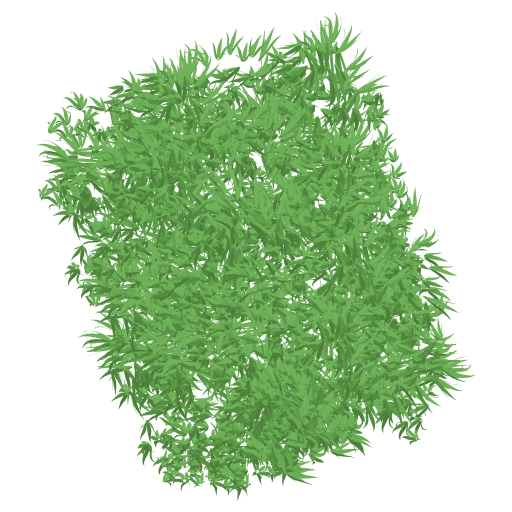
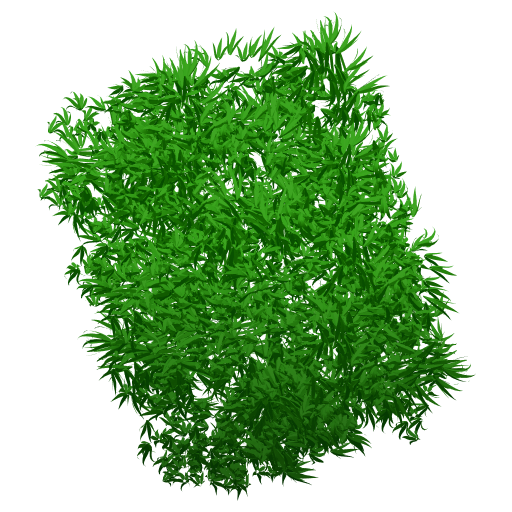
Gräs: heltäckande tuvor, mörkare och tätare som modellen

diff --git a/market/public/office.js b/market/public/office.js
@@ -48,10 +48,10 @@ let BW=19,floors=3,LAWN=null;
 /* Gräs: modellen "Grass" av MauroGonzalezA (CC BY 4.0, se CREDITS.md). Tuvan är bakad till en bild med genomskinlig bakgrund
    och planteras som tusentals korsade kort (en enda InstancedMesh), så det går lätt även på mobil. Marken under är den vanliga gröna ytan. */
 let TUFT=null,TUFT_TRIED=false,gpMat=null;
-const TUFT_SIZE=.8;
+const TUFT_SIZE=.55;
 function loadTuft(){
   if(TUFT_TRIED)return;TUFT_TRIED=true;
-  new T3.TextureLoader().load('models/grasstuft.png',t=>{
+  new T3.TextureLoader().load('models/grasstuft.png?v=2',t=>{
     t.encoding=T3.sRGBEncoding;t.anisotropy=4;
     gpMat=new T3.MeshBasicMaterial({map:t,alphaTest:.45,side:T3.DoubleSide});
     const g=new T3.BufferGeometry(),P=[],U=[],I=[];
@@ -64,21 +64,20 @@ function loadTuft(){
 function placeGrass(e){
   if(!root)return;root.userData.gpE=e;
   if(!TUFT||root.userData.gp)return;root.userData.gp=1;
-  // gräsytor [x0,x1,z0,z1]: sidogräsmattorna utanför trottoaren, remsan mellan huset och trottoaren och en smal remsa bakom huset
-  const zones=[[-(e+AW),e+AW,-7,-5.9],[-46,46,5.4,6.55]];
-  for(const sx of[-1,1]){
-    zones.push([Math.min(sx*(e+15.2),sx*46),Math.max(sx*(e+15.2),sx*46),-7,6.4]);
-    zones.push([Math.min(sx*(e+AW+1.2),sx*(e+14.8)),Math.max(sx*(e+AW+1.2),sx*(e+14.8)),-7,1.7]);
-  }
-  const areas=zones.map(z=>(z[1]-z[0])*(z[3]-z[2])),tot=areas.reduce((a,b)=>a+b,0),N=Math.min(5200,Math.round(tot*3.2));
+  // allt som är asfalt, trottoar, torg eller hus får ingen tuva; resten av den gröna marken fylls
+  const bl=-(e+AWL+.7),br=e+AWR+.7;
+  const paved=(x,z)=>(x>bl&&x<br&&z>-6.7&&z<2.7)||(Math.abs(x)<e+15.2&&z>1.9&&z<5.3)||z<-7.1||(z>6.65&&z<11.75)||(STY.gold&&Math.abs(x)<e+9.4&&z>-10.6&&z<8.4);
+  const spots=[],near=(x,z)=>Math.abs(x)<46&&z<14;
+  const sample=(x0,x1,z0,z1,dens,keep)=>{const n=Math.round((x1-x0)*(z1-z0)*dens);for(let i=0;i<n;i++){const x=x0+Math.random()*(x1-x0),z=z0+Math.random()*(z1-z0);if(!paved(x,z)&&keep(x,z))spots.push([x,z]);}};
+  sample(-46,46,-7.2,14,9,near);                       // nära: tätt
+  sample(-78,78,-7.2,46,2.4,(x,z)=>!near(x,z));            // längre bort: glesare men större tuvor
+  const N=Math.min(30000,spots.length);
   const mesh=new T3.InstancedMesh(TUFT,gpMat,N),m=new T3.Matrix4(),q=new T3.Quaternion(),up=new T3.Vector3(0,1,0),pos=new T3.Vector3(),sc=new T3.Vector3(),col=new T3.Color();
   for(let i=0;i<N;i++){
-    let r=Math.random()*tot,k=0;while(k<zones.length-1&&r>areas[k]){r-=areas[k];k++;}
-    const z=zones[k],sz=TUFT_SIZE*(.7+Math.random()*.6);
-    pos.set(z[0]+Math.random()*(z[1]-z[0]),-.7,z[2]+Math.random()*(z[3]-z[2]));
-    q.setFromAxisAngle(up,Math.random()*Math.PI);sc.set(sz,sz*(.8+Math.random()*.4),sz);
+    const [x,z]=spots[i],far=!near(x,z),sz=TUFT_SIZE*(far?1.25:1)*(.7+Math.random()*.6);
+    pos.set(x,-.7,z);q.setFromAxisAngle(up,Math.random()*Math.PI);sc.set(sz,sz*(.5+Math.random()*.3),sz);
     m.compose(pos,q,sc);mesh.setMatrixAt(i,m);
-    const v=.78+Math.random()*.22;mesh.setColorAt(i,col.setRGB(v,v,v));
+    const v=.74+Math.random()*.26;mesh.setColorAt(i,col.setRGB(v,v,v));
   }
   mesh.instanceMatrix.needsUpdate=true;if(mesh.instanceColor)mesh.instanceColor.needsUpdate=true;
   mesh.frustumCulled=false;mesh.castShadow=false;mesh.receiveShadow=false;root.add(mesh);
@@ -1167,7 +1166,7 @@ function applyTimeBase(){
   sunL.intensity=.72*d;sunL.color.copy(lerpC('#fffdf8','#ffb070',w));
   const a=Math.min(1,Math.max(0,(hourNow-6)/14))*Math.PI;sunL.position.set(-34*Math.cos(a),26*Math.max(.3,Math.sin(a)),30);
   lights.forEach(L=>{L.intensity=.06+.94*(1-d);});
-  if(groundMat)groundMat.color.copy(lerpC('#050a07','#'+new T3.Color(GROUNDC[VAR%GROUNDC.length]).getHexString(),d));
+  if(groundMat)groundMat.color.copy(lerpC('#050a07','#'+new T3.Color(GROUNDC[VAR%GROUNDC.length]).multiplyScalar(.5).getHexString(),d));
   if(gpMat)gpMat.color.copy(lerpC('#080d0a','#ffffff',Math.min(1,.12+d*.9)));
   drawCity(d);const nk=Math.max(0,1-d*1.4);beamMat.opacity=.75*nk;coneMat.opacity=.13*nk;glowMat.opacity=nk;tailMat.opacity=.85*nk;if(scene.fog)scene.fog.color.copy(lerpC('#101a3a','#cfdbe6',d).lerp(new T3.Color('#ffb98a'),w*.18));
 }

diff --git a/office.js b/office.js
@@ -48,10 +48,10 @@ let BW=19,floors=3,LAWN=null;
 /* Gräs: modellen "Grass" av MauroGonzalezA (CC BY 4.0, se CREDITS.md). Tuvan är bakad till en bild med genomskinlig bakgrund
    och planteras som tusentals korsade kort (en enda InstancedMesh), så det går lätt även på mobil. Marken under är den vanliga gröna ytan. */
 let TUFT=null,TUFT_TRIED=false,gpMat=null;
-const TUFT_SIZE=.8;
+const TUFT_SIZE=.55;
 function loadTuft(){
   if(TUFT_TRIED)return;TUFT_TRIED=true;
-  new T3.TextureLoader().load('models/grasstuft.png',t=>{
+  new T3.TextureLoader().load('models/grasstuft.png?v=2',t=>{
     t.encoding=T3.sRGBEncoding;t.anisotropy=4;
     gpMat=new T3.MeshBasicMaterial({map:t,alphaTest:.45,side:T3.DoubleSide});
     const g=new T3.BufferGeometry(),P=[],U=[],I=[];
@@ -64,21 +64,20 @@ function loadTuft(){
 function placeGrass(e){
   if(!root)return;root.userData.gpE=e;
   if(!TUFT||root.userData.gp)return;root.userData.gp=1;
-  // gräsytor [x0,x1,z0,z1]: sidogräsmattorna utanför trottoaren, remsan mellan huset och trottoaren och en smal remsa bakom huset
-  const zones=[[-(e+AW),e+AW,-7,-5.9],[-46,46,5.4,6.55]];
-  for(const sx of[-1,1]){
-    zones.push([Math.min(sx*(e+15.2),sx*46),Math.max(sx*(e+15.2),sx*46),-7,6.4]);
-    zones.push([Math.min(sx*(e+AW+1.2),sx*(e+14.8)),Math.max(sx*(e+AW+1.2),sx*(e+14.8)),-7,1.7]);
-  }
-  const areas=zones.map(z=>(z[1]-z[0])*(z[3]-z[2])),tot=areas.reduce((a,b)=>a+b,0),N=Math.min(5200,Math.round(tot*3.2));
+  // allt som är asfalt, trottoar, torg eller hus får ingen tuva; resten av den gröna marken fylls
+  const bl=-(e+AWL+.7),br=e+AWR+.7;
+  const paved=(x,z)=>(x>bl&&x<br&&z>-6.7&&z<2.7)||(Math.abs(x)<e+15.2&&z>1.9&&z<5.3)||z<-7.1||(z>6.65&&z<11.75)||(STY.gold&&Math.abs(x)<e+9.4&&z>-10.6&&z<8.4);
+  const spots=[],near=(x,z)=>Math.abs(x)<46&&z<14;
+  const sample=(x0,x1,z0,z1,dens,keep)=>{const n=Math.round((x1-x0)*(z1-z0)*dens);for(let i=0;i<n;i++){const x=x0+Math.random()*(x1-x0),z=z0+Math.random()*(z1-z0);if(!paved(x,z)&&keep(x,z))spots.push([x,z]);}};
+  sample(-46,46,-7.2,14,9,near);                       // nära: tätt
+  sample(-78,78,-7.2,46,2.4,(x,z)=>!near(x,z));            // längre bort: glesare men större tuvor
+  const N=Math.min(30000,spots.length);
   const mesh=new T3.InstancedMesh(TUFT,gpMat,N),m=new T3.Matrix4(),q=new T3.Quaternion(),up=new T3.Vector3(0,1,0),pos=new T3.Vector3(),sc=new T3.Vector3(),col=new T3.Color();
   for(let i=0;i<N;i++){
-    let r=Math.random()*tot,k=0;while(k<zones.length-1&&r>areas[k]){r-=areas[k];k++;}
-    const z=zones[k],sz=TUFT_SIZE*(.7+Math.random()*.6);
-    pos.set(z[0]+Math.random()*(z[1]-z[0]),-.7,z[2]+Math.random()*(z[3]-z[2]));
-    q.setFromAxisAngle(up,Math.random()*Math.PI);sc.set(sz,sz*(.8+Math.random()*.4),sz);
+    const [x,z]=spots[i],far=!near(x,z),sz=TUFT_SIZE*(far?1.25:1)*(.7+Math.random()*.6);
+    pos.set(x,-.7,z);q.setFromAxisAngle(up,Math.random()*Math.PI);sc.set(sz,sz*(.5+Math.random()*.3),sz);
     m.compose(pos,q,sc);mesh.setMatrixAt(i,m);
-    const v=.78+Math.random()*.22;mesh.setColorAt(i,col.setRGB(v,v,v));
+    const v=.74+Math.random()*.26;mesh.setColorAt(i,col.setRGB(v,v,v));
   }
   mesh.instanceMatrix.needsUpdate=true;if(mesh.instanceColor)mesh.instanceColor.needsUpdate=true;
   mesh.frustumCulled=false;mesh.castShadow=false;mesh.receiveShadow=false;root.add(mesh);
@@ -1167,7 +1166,7 @@ function applyTimeBase(){
   sunL.intensity=.72*d;sunL.color.copy(lerpC('#fffdf8','#ffb070',w));
   const a=Math.min(1,Math.max(0,(hourNow-6)/14))*Math.PI;sunL.position.set(-34*Math.cos(a),26*Math.max(.3,Math.sin(a)),30);
   lights.forEach(L=>{L.intensity=.06+.94*(1-d);});
-  if(groundMat)groundMat.color.copy(lerpC('#050a07','#'+new T3.Color(GROUNDC[VAR%GROUNDC.length]).getHexString(),d));
+  if(groundMat)groundMat.color.copy(lerpC('#050a07','#'+new T3.Color(GROUNDC[VAR%GROUNDC.length]).multiplyScalar(.5).getHexString(),d));
   if(gpMat)gpMat.color.copy(lerpC('#080d0a','#ffffff',Math.min(1,.12+d*.9)));
   drawCity(d);const nk=Math.max(0,1-d*1.4);beamMat.opacity=.75*nk;coneMat.opacity=.13*nk;glowMat.opacity=nk;tailMat.opacity=.85*nk;if(scene.fog)scene.fog.color.copy(lerpC('#101a3a','#cfdbe6',d).lerp(new T3.Color('#ffb98a'),w*.18));
 }

diff --git a/market/public/portal.js b/market/public/portal.js
@@ -346,7 +346,7 @@ const loadNet = () => netLoad || (netLoad = new Promise((ok, no) => {
 }));
 const loadOffice = () => cityLoad || (cityLoad = new Promise((ok, no) => {
   const add = (src, next) => { const el = document.createElement('script'); el.src = src; el.onload = next; el.onerror = () => { cityLoad = null; no(new Error('3D')); }; document.head.appendChild(el); };
-  const full = () => (window.THREE && THREE.GLTFLoader ? add('office.js?v=34', ok) : add('vendor/GLTFLoader.js', () => add('office.js?v=34', ok)));
+  const full = () => (window.THREE && THREE.GLTFLoader ? add('office.js?v=38', ok) : add('vendor/GLTFLoader.js', () => add('office.js?v=38', ok)));
   window.THREE ? full() : add('vendor/three.min.js', full);
 }));
 let officeCv = null, showCb = null;

diff --git a/index.html b/index.html
@@ -63,7 +63,7 @@
 <script src="i18n-daily.js?v=72"></script>
 <script src="core.js?v=72"></script>
 <script src="github.js?v=72"></script>
-<script src="office.js?v=97"></script>
+<script src="office.js?v=101"></script>
 <script src="flags.js?v=72"></script>
 <script src="i18n-orders.js?v=76"></script>
 <script src="app.js?v=82"></script>
